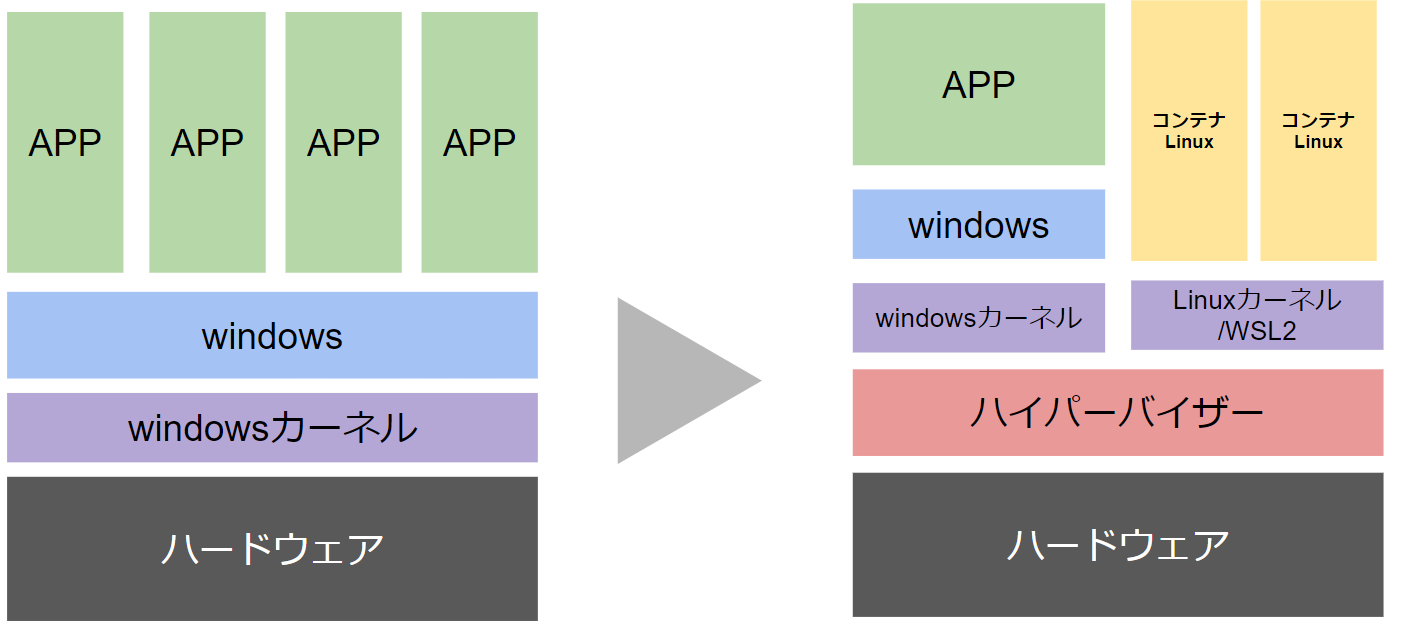
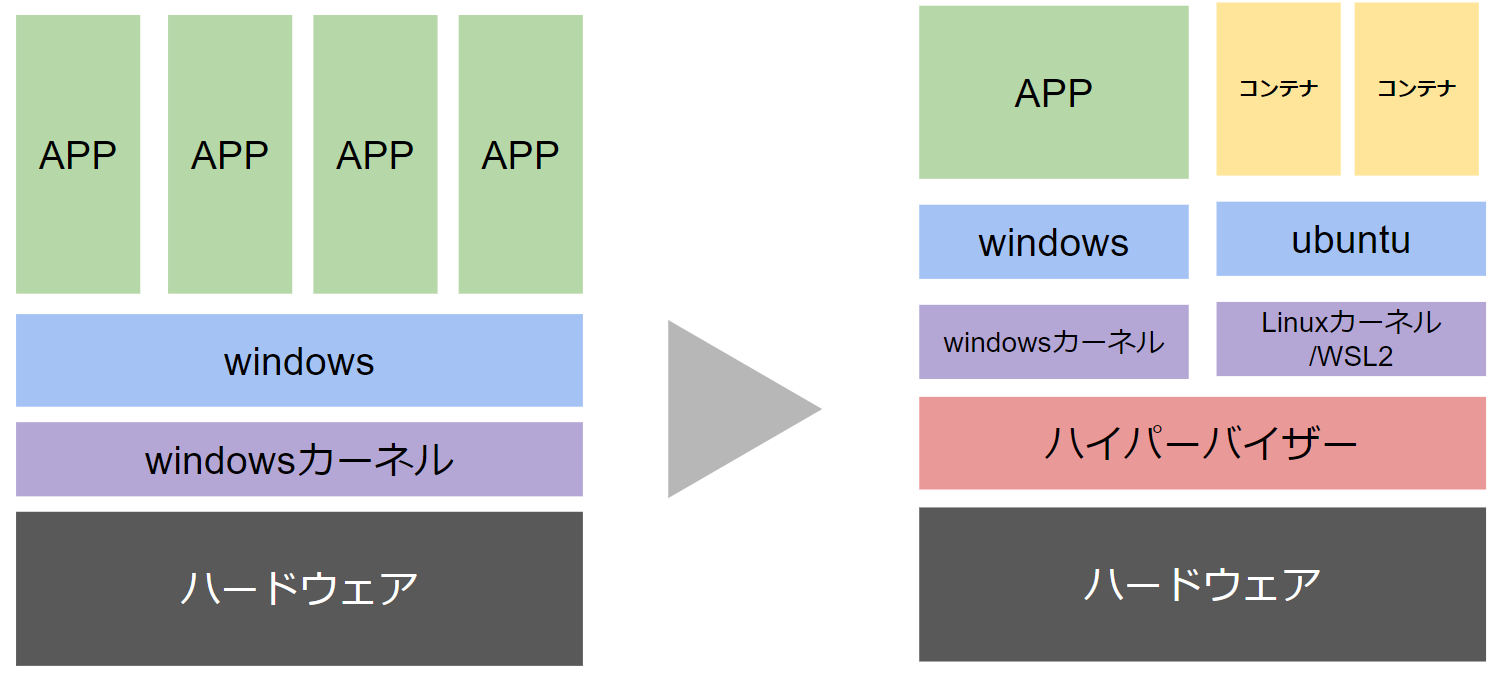
refactor/modify images

diff --git a/articles/9ba0df8ca3e4d0.md b/articles/9ba0df8ca3e4d0.md
@@ -96,6 +96,9 @@ WSL1とWSL2があります。詳細は省きますが、簡単に言うと
 
 WSL2をインストールすることで、Linux用のカーネルを装備でき、ハイパーバイザー上で動くOSの一つをLinuxにすることができます。
 これでwindowsPCでも、前提である「DockerはLinux上で動く」ための条件を満たしましたね。
+:::message
+WSL2では、デフォルトでubuntuもインストールされます
+:::
 
 ![](/images/9ba0df8ca3e4d0/hyper-container.png =500x)
 
